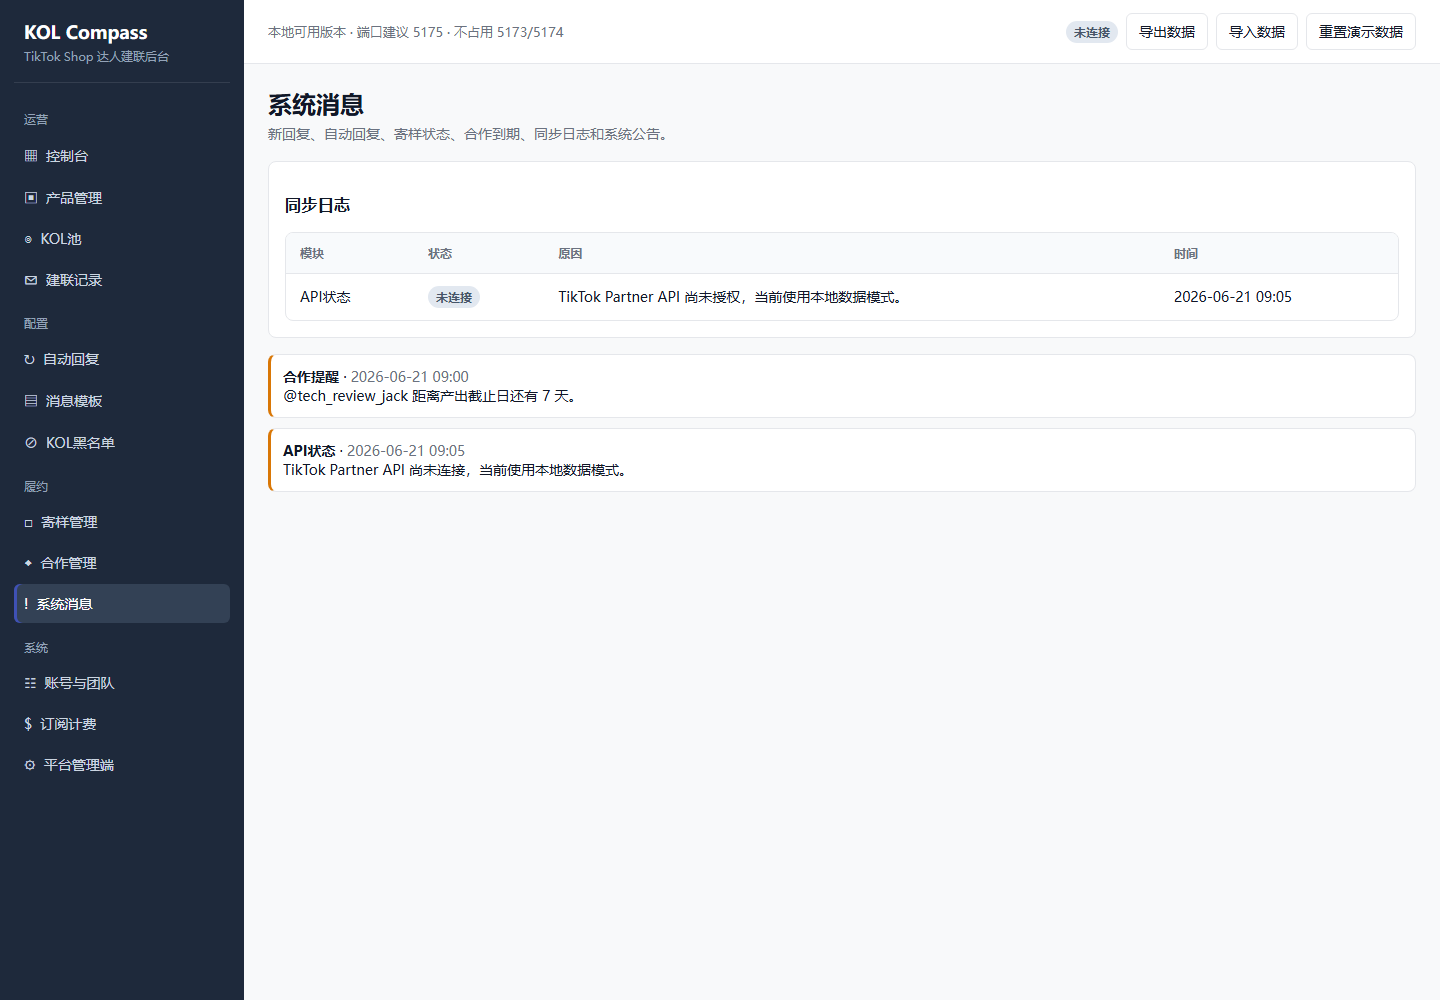
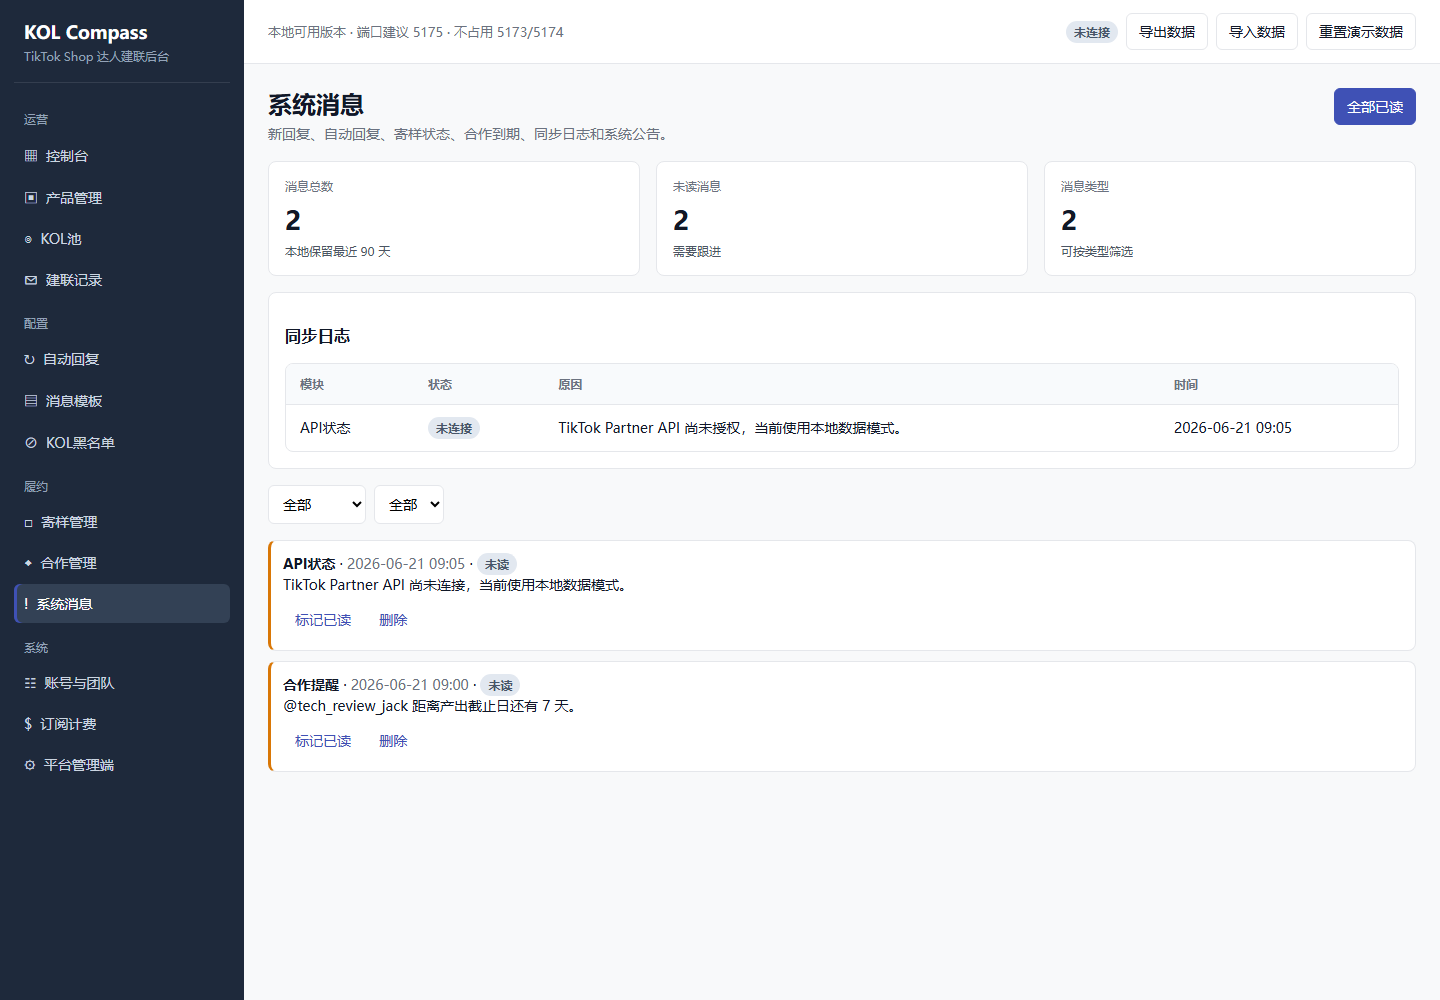
Add system message center controls

diff --git a/app.js b/app.js
@@ -58,6 +58,8 @@ const seed = {
     coopOutput: "全部",
     coopStatus: "全部",
     coopTag: "全部",
+    messageType: "全部",
+    messageRead: "全部",
   },
   settings: {
     tiktokConnected: false,
@@ -761,8 +763,20 @@ function renderCooperations() {
 }
 
 function renderMessages() {
+  pruneSystemMessages();
+  const types = Array.from(new Set(state.systemMessages.map((m) => m.type).filter(Boolean)));
+  const rows = state.systemMessages
+    .filter((m) => state.filters.messageType === "全部" || m.type === state.filters.messageType)
+    .filter((m) => state.filters.messageRead === "全部" || (state.filters.messageRead === "未读" ? !m.read : m.read))
+    .sort((a, b) => new Date(b.at) - new Date(a.at));
+  const unread = state.systemMessages.filter((m) => !m.read).length;
   return `
-    ${pageHead("系统消息", "新回复、自动回复、寄样状态、合作到期、同步日志和系统公告。")}
+    ${pageHead("系统消息", "新回复、自动回复、寄样状态、合作到期、同步日志和系统公告。", `<button class="btn primary" onclick="markAllMessagesRead()">全部已读</button>`)}
+    <div class="grid grid-3" style="margin-bottom:16px">
+      ${stat("消息总数", state.systemMessages.length, "本地保留最近 90 天")}
+      ${stat("未读消息", unread, "需要跟进")}
+      ${stat("消息类型", types.length, "可按类型筛选")}
+    </div>
     <div class="card" style="margin-bottom:16px">
       <h3>同步日志</h3>
       ${table(["模块", "状态", "原因", "时间"], state.syncLogs.slice(0, 8).map((log) => [
@@ -772,11 +786,25 @@ function renderMessages() {
         escapeHtml(log.at),
       ]))}
     </div>
+    <div class="toolbar">
+      <div class="filters">
+        <select class="select" onchange="setFilter('messageType', this.value)">
+          ${["全部", ...types].map((x) => `<option ${state.filters.messageType === x ? "selected" : ""}>${escapeHtml(x)}</option>`).join("")}
+        </select>
+        <select class="select" onchange="setFilter('messageRead', this.value)">
+          ${["全部", "未读", "已读"].map((x) => `<option ${state.filters.messageRead === x ? "selected" : ""}>${x}</option>`).join("")}
+        </select>
+      </div>
+    </div>
     <div class="timeline">
-      ${state.systemMessages.map((m) => `
+      ${rows.map((m) => `
         <div class="message ${m.read ? "" : "inbound"}">
-          <b>${m.type}</b> · <span class="muted">${m.at}</span>
+          <b>${escapeHtml(m.type)}</b> · <span class="muted">${escapeHtml(m.at)}</span> · ${m.read ? badge("已读") : badge("未读")}
           <div>${escapeHtml(m.text)}</div>
+          <div style="margin-top:8px">
+            ${m.read ? "" : `<button class="btn ghost" onclick="markMessageRead(${m.id})">标记已读</button>`}
+            <button class="btn ghost" onclick="deleteMessage(${m.id})">删除</button>
+          </div>
         </div>
       `).join("")}
     </div>
@@ -1185,6 +1213,36 @@ function dateAfter(days) {
 
 function pushMessage(type, text) {
   state.systemMessages.unshift({ id: Date.now(), type, text, at: nowText(), read: false });
+  pruneSystemMessages();
+}
+
+function pruneSystemMessages() {
+  const cutoff = Date.now() - 90 * 24 * 60 * 60 * 1000;
+  state.systemMessages = state.systemMessages.filter((m) => {
+    const time = new Date(m.at).getTime();
+    return !Number.isFinite(time) || time >= cutoff;
+  }).slice(0, 200);
+}
+
+function markMessageRead(id) {
+  const row = state.systemMessages.find((m) => m.id === id);
+  if (!row) return;
+  row.read = true;
+  saveState();
+  render();
+}
+
+function markAllMessagesRead() {
+  state.systemMessages.forEach((m) => { m.read = true; });
+  saveState();
+  render();
+}
+
+function deleteMessage(id) {
+  if (!confirm("确认删除该系统消息？")) return;
+  state.systemMessages = state.systemMessages.filter((m) => m.id !== id);
+  saveState();
+  render();
 }
 
 function logOperation(action, target, detail, operator = "Sam") {
@@ -2205,6 +2263,9 @@ window.showCreator = showCreator;
 window.syncProducts = syncProducts;
 window.syncCreators = syncCreators;
 window.syncCoopData = syncCoopData;
+window.markMessageRead = markMessageRead;
+window.markAllMessagesRead = markAllMessagesRead;
+window.deleteMessage = deleteMessage;
 window.simulateConnect = simulateConnect;
 window.saveApiSettings = saveApiSettings;
 window.markApiAuthBlocked = markApiAuthBlocked;

diff --git a/smoke-test.js b/smoke-test.js
@@ -81,6 +81,7 @@ async function main() {
   assert("TikTok API handoff exists", fs.existsSync("docs/TIKTOK_API_HANDOFF.md"));
   assert("TikTok API settings can be saved locally", ["tiktokClientKey", "tiktokRedirectUrl", "tiktokScopes", "saveApiSettings", "markApiAuthBlocked"].every((name) => app.includes(name)) && app.includes("client_secret 不应保存在前端"));
   assert("sync logs are visible and recorded", ["syncLogs", "addSyncLog"].every((name) => app.includes(name)) && app.includes("同步日志"));
+  assert("system message center supports read state and filters", ["messageType", "messageRead", "markMessageRead", "markAllMessagesRead", "deleteMessage", "pruneSystemMessages"].every((name) => app.includes(name)) && app.includes("本地保留最近 90 天"));
   assert("platform feature switches govern channels", ["featureSwitches", "toggleFeatureSwitch", "channelOptionsForCreators", "validateChannelForCreators"].every((name) => app.includes(name)) && app.includes("Stripe 支付已由平台管理端关闭"));
   assert("team management and operation logs supported", ["rolePermissions", "operationLogs", "logOperation", "openTeamMemberModal", "saveTeamMember", "toggleTeamMember"].every((name) => app.includes(name)) && app.includes("操作日志") && app.includes("可访问店铺"));
   assert("products cannot be manually faked", app.includes("本地版本不允许手动新增") && app.includes("产品数据应来自 TikTok Shop Partner API"));

diff --git a/docs/PROJECT_MEMORY.md b/docs/PROJECT_MEMORY.md
@@ -1,6 +1,6 @@
 # KOL Compass 项目记忆
 
-更新时间：2026-06-21 23:37 CST
+更新时间：2026-06-22 04:09 CST
 
 ## 当前工作目录
 
@@ -40,6 +40,7 @@ node smoke-test.js
 
 - `node --check app.js` 通过。
 - `node smoke-test.js` 全部通过。
+- 系统消息截图 `smoke-messages.png` 已重新生成并目视检查通过，类型筛选、已读筛选、全部已读、单条已读/删除可见。
 - 账号与团队截图 `smoke-team.png` 已生成并目视检查通过，成员管理、角色权限、可访问店铺和操作日志可见。
 - KOL 池截图 `smoke-kol-pool.png` 已重新生成并目视检查通过，建联配额、24 小时限发和不感兴趣入口可见。
 - 订阅计费截图 `smoke-billing.png` 已重新生成并目视检查通过，套餐切换和配额剩余额度可见。
@@ -80,7 +81,7 @@ node smoke-test.js
 - 本地数据支持 JSON 导入/导出。
 - 建联记录已支持：标记已回复、安排寄样、进入合作、关闭、删除。
 - 寄样管理已支持：新增/更新寄样、删除、已签收后进入合作。
-- 系统消息已支持同步日志，记录 API/商品/达人/内容订单同步的模块、状态、失败原因和时间；外部 API 未授权时不伪造同步成功。
+- 系统消息已支持同步日志与通知中心：记录 API/商品/达人/内容订单同步的模块、状态、失败原因和时间；支持类型筛选、已读筛选、全部已读、单条已读、删除和 90 天本地保留；外部 API 未授权时不伪造同步成功。
 
 ## 当前阻塞
 

diff --git a/docs/CLAUDE_CONTINUE.md b/docs/CLAUDE_CONTINUE.md
@@ -31,7 +31,7 @@
 - `stop-5175.bat`
 - `smoke-test.js`
 
-最近一次心跳检查：2026-06-21 23:37 CST，当前分支已连接 GitHub 远端，`node --check app.js` 与 `node smoke-test.js` 通过。本轮补齐账号与团队闭环：成员新增/编辑/启禁用、角色权限摘要、可访问店铺、操作日志；模板、自动回复、功能开关、建联发送等关键动作会写入日志。
+最近一次心跳检查：2026-06-22 04:09 CST，当前分支已连接 GitHub 远端，`node --check app.js` 与 `node smoke-test.js` 通过。本轮补齐系统消息通知中心：类型筛选、已读筛选、全部已读、单条已读、删除和 90 天本地保留。
 
 启动：
 
@@ -125,6 +125,10 @@ P0：
    - 成员可新增、编辑、启禁用
    - 角色权限摘要和可访问店铺必须可见
    - 关键操作要写入操作日志，日志包含操作人、动作、对象、内容、IP、时间
+10. 保持系统消息通知中心可用：
+   - 支持同步日志
+   - 支持类型筛选、已读筛选、全部已读、单条已读、删除
+   - 本地消息保留最近 90 天
 
 P1：
 

diff --git a/README.md b/README.md
@@ -74,7 +74,7 @@ KOL CSV 支持表头：
 - 建联记录支持按达人/产品/消息关键词、沟通状态和渠道筛选。
 - 自动回复支持新增、编辑、删除、启停、关键词/条件组合配置，并提供本地触发测试；测试不会发送真实外部消息。
 - 合作管理支持按达人/产品/负责人/备注搜索，并支持全部/已产出/未产出筛选。
-- 系统消息包含同步日志，记录 API/商品/达人/内容订单同步的模块、状态、失败原因和时间。
+- 系统消息包含同步日志和通知中心，支持类型筛选、已读筛选、全部已读、单条已读、删除，并本地保留最近 90 天。
 - 消息模板支持新增、编辑、删除，并提示可用变量。
 - 账号与团队支持新增/编辑/启禁用成员、角色权限摘要、可访问店铺配置和操作日志。
 - 建联记录支持从沟通状态推进到寄样或合作；寄样管理支持从已签收样品进入合作管理。

diff --git a/docs/ACCEPTANCE_REPORT.md b/docs/ACCEPTANCE_REPORT.md
@@ -132,6 +132,7 @@ node smoke-test.js
 - 订阅页读取 Stripe 支付开关，关闭时明确展示不可用状态
 - 订阅页支持本地切换套餐，切换后即时影响建联配额
 - 系统消息包含同步日志，展示 API/同步状态、原因和时间
+- 系统消息支持类型筛选、已读筛选、全部已读、单条已读、删除，并本地保留最近 90 天
 - KOL详情和达人编辑弹窗支持录入 Email / WhatsApp
 - 建联记录和KOL详情沟通记录支持直接回复
 - 建联记录支持按达人/产品/消息关键词、沟通状态、渠道筛选
